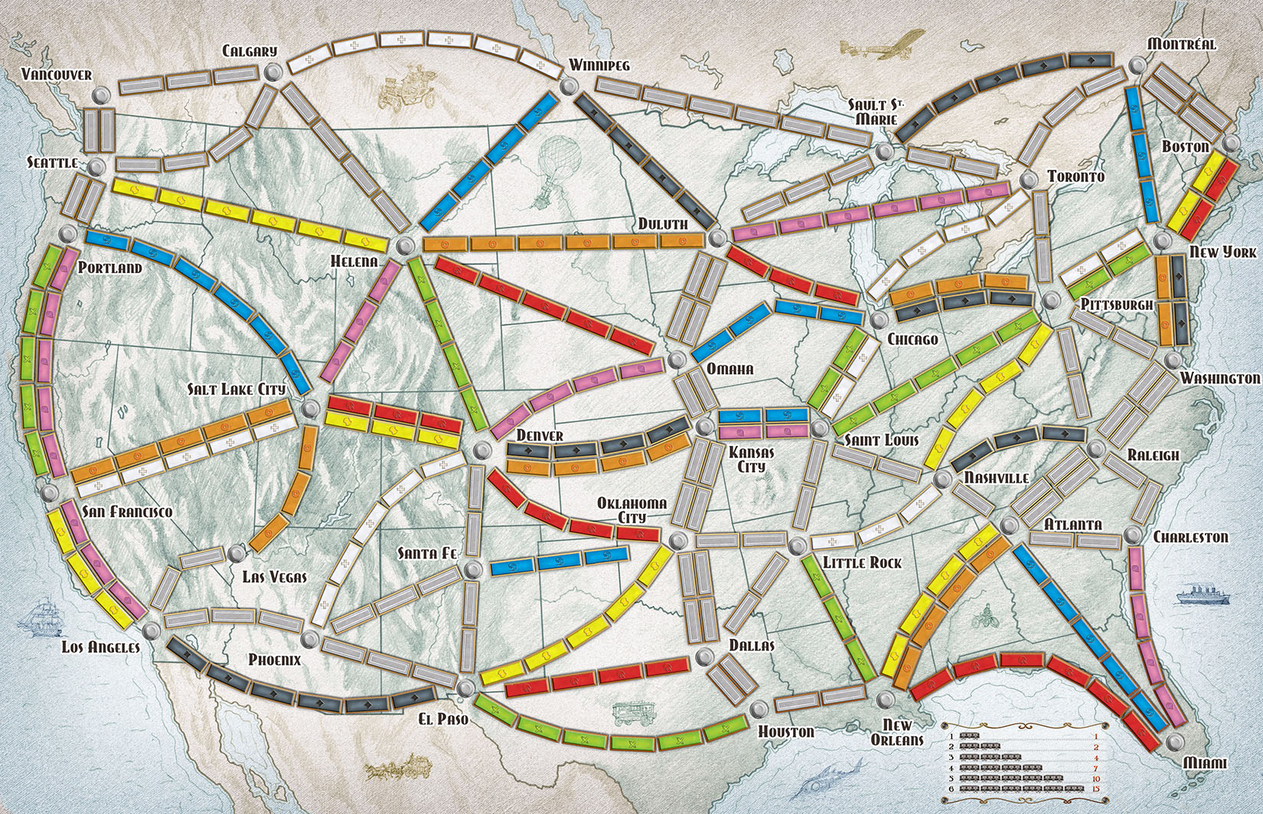
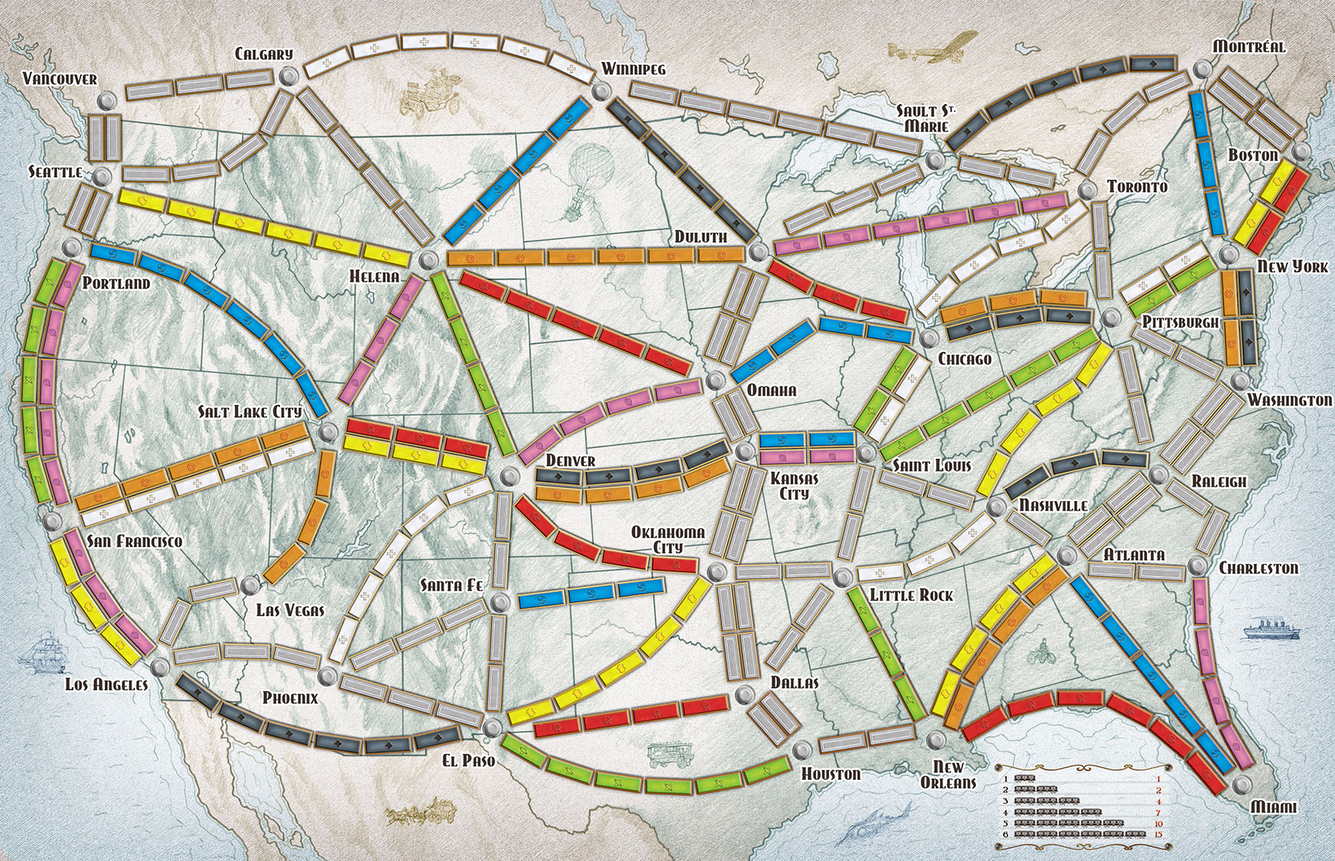
fix map css

diff --git a/tickettoride.js b/tickettoride.js
@@ -129,8 +129,7 @@ function setupDestinationCardDiv(cardDiv, cardTypeId) {
     //const destination = DESTINATIONS.find(d => d.id == Number(cardTypeId));
     //cardDiv.innerHTML = `<span><strong>${CITIES_NAMES[destination.from]}</strong> to <strong>${CITIES_NAMES[destination.to]}</strong> (<strong>${destination.points}</strong>)</span>`;
 }
-var POINT_CASE_SIZE = 25.5;
-var BOARD_POINTS_MARGIN = 38;
+var FACTOR = 1.057;
 var SIDES = ['left', 'right', 'top', 'bottom'];
 var CORNERS = ['bottom-left', 'bottom-right', 'top-left', 'top-right'];
 var City = /** @class */ (function () {
@@ -716,9 +715,9 @@ var TtrMap = /** @class */ (function () {
         this.pos = { dragging: false, top: 0, left: 0, x: 0, y: 0 };
         this.zoomed = false;
         // map border
-        dojo.place("<div class=\"illustration\"></div>", 'map-zoom');
-        SIDES.forEach(function (side) { return dojo.place("<div class=\"side " + side + "\"></div>", 'map-zoom'); });
-        CORNERS.forEach(function (corner) { return dojo.place("<div class=\"corner " + corner + "\"></div>", 'map-zoom'); });
+        dojo.place("<div class=\"illustration\"></div>", 'map-and-borders');
+        SIDES.forEach(function (side) { return dojo.place("<div class=\"side " + side + "\"></div>", 'map-and-borders'); });
+        CORNERS.forEach(function (corner) { return dojo.place("<div class=\"corner " + corner + "\"></div>", 'map-and-borders'); });
         /*let html = '';
 
         // points
@@ -728,11 +727,11 @@ var TtrMap = /** @class */ (function () {
         });
         dojo.place(html, 'map');*/
         CITIES.forEach(function (city) {
-            return dojo.place("<div id=\"city" + city.id + "\" class=\"city\" \n                style=\"transform: translate(" + city.x + "px, " + city.y + "px)\"\n                title=\"" + CITIES_NAMES[city.id] + "\"\n            ></div>", 'map');
+            return dojo.place("<div id=\"city" + city.id + "\" class=\"city\" \n                style=\"transform: translate(" + city.x * FACTOR + "px, " + city.y * FACTOR + "px)\"\n                title=\"" + CITIES_NAMES[city.id] + "\"\n            ></div>", 'map');
         });
         ROUTES.forEach(function (route) {
             return route.spaces.forEach(function (space, spaceIndex) {
-                dojo.place("<div id=\"route" + route.id + "-space" + spaceIndex + "\" class=\"route space\" \n                    style=\"transform: translate(" + space.x + "px, " + space.y + "px) rotate(" + space.angle + "deg)\"\n                    title=\"" + CITIES_NAMES[route.from] + " to " + CITIES_NAMES[route.to] + ", " + route.spaces.length + " " + COLORS[route.color] + "\"\n                    data-route=\"" + route.id + "\"\n                ></div>", 'map');
+                dojo.place("<div id=\"route" + route.id + "-space" + spaceIndex + "\" class=\"route space\" \n                    style=\"transform: translate(" + space.x * FACTOR + "px, " + space.y * FACTOR + "px) rotate(" + space.angle + "deg)\"\n                    title=\"" + CITIES_NAMES[route.from] + " to " + CITIES_NAMES[route.to] + ", " + route.spaces.length + " " + COLORS[route.color] + "\"\n                    data-route=\"" + route.id + "\"\n                ></div>", 'map');
                 var spaceDiv = document.getElementById("route" + route.id + "-space" + spaceIndex);
                 //spaceDiv.addEventListener('click', () => this.game.claimRoute(route.id));   
                 var enterover = function (e) {
@@ -830,7 +829,7 @@ ${route.spaces.map(space => `        new RouteSpace(${(space.x*0.986 + 10).toFix
                 while (angle >= 180) {
                     angle -= 180;
                 }
-                dojo.place("<div class=\"wagon angle" + Math.round(angle * 36 / 180) + "\" data-player-color=\"" + color + "\" style=\"transform: translate(" + space.x + "px, " + space.y + "px)\"></div>", 'map');
+                dojo.place("<div class=\"wagon angle" + Math.round(angle * 36 / 180) + "\" data-player-color=\"" + color + "\" style=\"transform: translate(" + space.x * FACTOR + "px, " + space.y * FACTOR + "px)\"></div>", 'map');
             });
         });
     };
@@ -867,9 +866,10 @@ ${route.spaces.map(space => `        new RouteSpace(${(space.x*0.986 + 10).toFix
         // How far the mouse has been moved
         var dx = e.clientX - this.pos.x;
         var dy = e.clientY - this.pos.y;
+        var factor = 0.1;
         // Scroll the element
-        this.mapZoomDiv.scrollTop -= dy;
-        this.mapZoomDiv.scrollLeft -= dx;
+        this.mapZoomDiv.scrollTop -= dy * factor;
+        this.mapZoomDiv.scrollLeft -= dx * factor;
     };
     TtrMap.prototype.mouseUpHandler = function () {
         if (!this.zoomed || !this.pos.dragging) {

diff --git a/src/map/map.ts b/src/map/map.ts
@@ -1,5 +1,4 @@
-const POINT_CASE_SIZE = 25.5;
-const BOARD_POINTS_MARGIN = 38;
+const FACTOR = 1.057;
 
 const SIDES = ['left', 'right', 'top', 'bottom'];
 const CORNERS = ['bottom-left', 'bottom-right', 'top-left', 'top-right'];
@@ -596,9 +595,9 @@ class TtrMap {
         claimedRoutes: ClaimedRoute[],
     ) {
         // map border
-        dojo.place(`<div class="illustration"></div>`, 'map-zoom');
-        SIDES.forEach(side => dojo.place(`<div class="side ${side}"></div>`, 'map-zoom'));
-        CORNERS.forEach(corner => dojo.place(`<div class="corner ${corner}"></div>`, 'map-zoom'));
+        dojo.place(`<div class="illustration"></div>`, 'map-and-borders');
+        SIDES.forEach(side => dojo.place(`<div class="side ${side}"></div>`, 'map-and-borders'));
+        CORNERS.forEach(corner => dojo.place(`<div class="corner ${corner}"></div>`, 'map-and-borders'));
 
         /*let html = '';
 
@@ -612,7 +611,7 @@ class TtrMap {
 
         CITIES.forEach(city => 
             dojo.place(`<div id="city${city.id}" class="city" 
-                style="transform: translate(${city.x}px, ${city.y}px)"
+                style="transform: translate(${city.x*FACTOR}px, ${city.y*FACTOR}px)"
                 title="${CITIES_NAMES[city.id]}"
             ></div>`, 'map')
         );
@@ -621,7 +620,7 @@ class TtrMap {
         ROUTES.forEach(route => 
             route.spaces.forEach((space, spaceIndex) => {
                 dojo.place(`<div id="route${route.id}-space${spaceIndex}" class="route space" 
-                    style="transform: translate(${space.x}px, ${space.y}px) rotate(${space.angle}deg)"
+                    style="transform: translate(${space.x*FACTOR}px, ${space.y*FACTOR}px) rotate(${space.angle}deg)"
                     title="${CITIES_NAMES[route.from]} to ${CITIES_NAMES[route.to]}, ${(route.spaces as any).length} ${COLORS[route.color]}"
                     data-route="${route.id}"
                 ></div>`, 'map');
@@ -732,7 +731,7 @@ ${route.spaces.map(space => `        new RouteSpace(${(space.x*0.986 + 10).toFix
                 while (angle >= 180) {
                     angle -= 180;
                 }
-                dojo.place(`<div class="wagon angle${Math.round(angle * 36 / 180)}" data-player-color="${color}" style="transform: translate(${space.x}px, ${space.y}px)"></div>`, 'map');
+                dojo.place(`<div class="wagon angle${Math.round(angle * 36 / 180)}" data-player-color="${color}" style="transform: translate(${space.x*FACTOR}px, ${space.y*FACTOR}px)"></div>`, 'map');
             });
         });
     }
@@ -777,9 +776,11 @@ ${route.spaces.map(space => `        new RouteSpace(${(space.x*0.986 + 10).toFix
         const dx = e.clientX - this.pos.x;
         const dy = e.clientY - this.pos.y;
 
+        const factor = 0.1;
+
         // Scroll the element
-        this.mapZoomDiv.scrollTop -= dy;
-        this.mapZoomDiv.scrollLeft -= dx;
+        this.mapZoomDiv.scrollTop -= dy*factor;
+        this.mapZoomDiv.scrollLeft -= dx*factor;
     }
 
     private mouseUpHandler() {

diff --git a/tickettoride.css b/tickettoride.css
@@ -95,68 +95,68 @@
   transform-origin: top left;
 }
 
-#map-zoom {
+#map-and-borders {
   position: relative;
 }
-#map-zoom .side {
+#map-and-borders .side {
   position: absolute;
   pointer-events: none;
 }
-#map-zoom .side.left {
+#map-and-borders .side.left {
   background: url("img/border-map-left.png");
   width: 9px;
   left: 0;
   top: 180px;
   bottom: 180px;
 }
-#map-zoom .side.right {
+#map-and-borders .side.right {
   background: url("img/border-map-right.png");
   width: 8px;
   right: 0;
   top: 180px;
   bottom: 180px;
 }
-#map-zoom .side.top {
+#map-and-borders .side.top {
   background: url("img/border-map-top.png");
   height: 8px;
   left: 180px;
   right: 180px;
   top: 0;
 }
-#map-zoom .side.bottom {
+#map-and-borders .side.bottom {
   background: url("img/border-map-bottom.png");
   height: 9px;
   left: 180px;
   right: 180px;
   bottom: 0;
 }
-#map-zoom .corner {
+#map-and-borders .corner {
   position: absolute;
   pointer-events: none;
   width: 180px;
   height: 180px;
 }
-#map-zoom .corner.top-left {
+#map-and-borders .corner.top-left {
   background: url("img/border-map-corner-top-left.png");
   left: 0;
   top: 0;
 }
-#map-zoom .corner.top-right {
+#map-and-borders .corner.top-right {
   background: url("img/border-map-corner-top-right.png");
   right: 0;
   top: 0;
 }
-#map-zoom .corner.bottom-left {
+#map-and-borders .corner.bottom-left {
   background: url("img/border-map-corner-bottom-left.png");
   left: 0;
   bottom: 0;
 }
-#map-zoom .corner.bottom-right {
+#map-and-borders .corner.bottom-right {
   background: url("img/border-map-corner-bottom-right.png");
   right: 0;
   bottom: 0;
 }
-#map-zoom .illustration {
+#map-and-borders .illustration {
   position: absolute;
   pointer-events: none;
   background: url("img/border-map-illustration.png");
@@ -166,10 +166,14 @@
   height: 206px;
 }
 
+#map-zoom {
+  position: relative;
+}
+
 #map {
   position: relative;
-  width: 1650px;
-  height: 1064px;
+  width: 1744px;
+  height: 1125px;
   background: url("img/map.jpg");
   transform-origin: top left;
   /*&.drag-over {
@@ -408,6 +412,7 @@
 #train-car-deck .hidden-pile {
   position: relative;
   display: flex;
+  height: 192px;
 }
 #train-car-deck .hidden-pile .deck-level {
   position: absolute;
@@ -416,6 +421,8 @@
   right: 0;
   bottom: 0;
   pointer-events: none;
+  background-repeat: no-repeat;
+  background-position: center;
 }
 #train-car-deck .hidden-pile #train-car-deck-level[data-level="1"] {
   background-image: url("img/deck-cardLevel-10.png");
@@ -513,7 +520,7 @@
   width: 50px;
   height: 158px;
   position: absolute;
-  right: 0;
+  right: 15px;
   top: 10px;
 }
 .gauge .inner {

diff --git a/src/train-car-deck/_train-car-deck.scss b/src/train-car-deck/_train-car-deck.scss
@@ -13,6 +13,7 @@
     .hidden-pile {
         position: relative;   
         display: flex;
+        height: 192px;
         
         .deck-level {
             position: absolute;
@@ -21,6 +22,8 @@
             right: 0;
             bottom: 0;
             pointer-events: none;
+            background-repeat: no-repeat;
+            background-position: center;
         }
 
         #train-car-deck-level {
@@ -83,7 +86,7 @@
     width: 50px;
     height: 158px;
     position: absolute;
-    right: 0;
+    right: 15px;
     top: 10px;
 
     .inner {

diff --git a/src/map/_map.scss b/src/map/_map.scss
@@ -50,7 +50,7 @@
   transform-origin: top left;
 }
 
-#map-zoom {
+#map-and-borders {
   position: relative;  
 
   .side {
@@ -136,10 +136,14 @@
   }
 }
 
+#map-zoom {
+  position: relative;
+}
+
 #map {
     position: relative;
-    width: 1650px;
-    height: 1064px;
+    width: 1744px;//1650
+    height: 1125px;
     background: url('img/map.jpg');
     transform-origin: top left;
 
